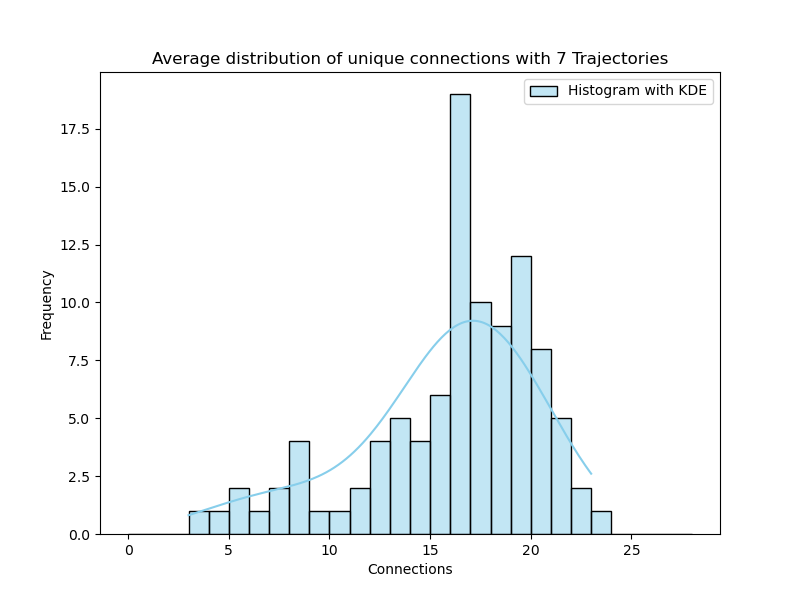
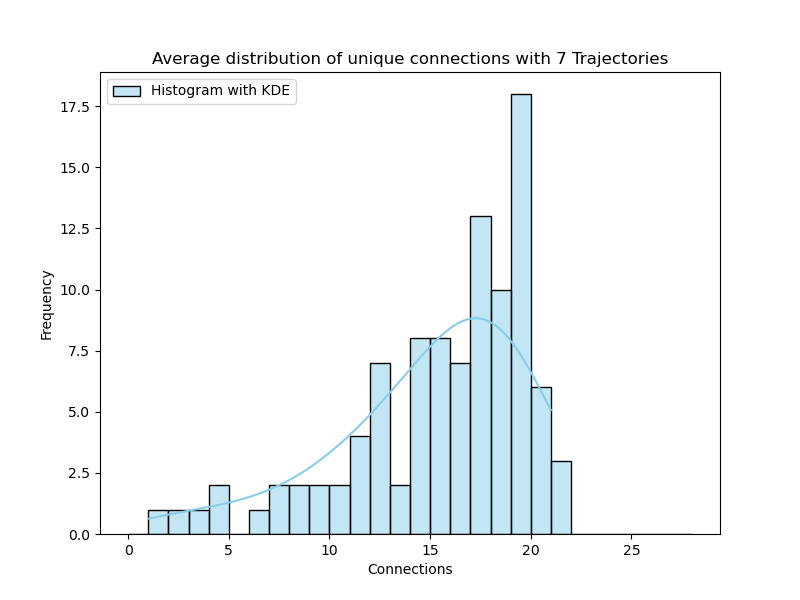
some changes
few changes

diff --git a/code/algorithms/random_start_random_choice.py b/code/algorithms/random_start_random_choice.py
@@ -31,7 +31,8 @@ def calculate_score(connections, trajectory_amount, duration, total_connections 
     p = connections / total_connections
     return p * 10000 - (trajectory_amount * 100 + duration)
 
-def generate_trajectory(connection_object_dict, possible_connections_dict, needed_connections_dict):
+def generate_trajectory(connection_object_dict, possible_connections_dict,
+    needed_connections_dict):
     """
     generates a random trajectory by preferring to choose from the connections that
     have not been chosen yet (provided in needed_connections). Takes a dictionary
@@ -43,56 +44,67 @@ def generate_trajectory(connection_object_dict, possible_connections_dict, neede
     objects = []
     duration = 0
     new_needed_connections_dict = copy.deepcopy(needed_connections_dict)
+    complete = False
 
-    # make random amount of connections between 1 and 24
-    if len(new_needed_connections_dict) > 0:
-        for i in range(random.randint(1, 24)):
-            # if there is no objects yet, we need a random starting point
-            if len(objects) <= 0:
-                # Start with a random needed connection and append to list
-                connection_object = random.choice(list(new_needed_connections_dict.values()))
-                start_station = connection_object.start_station
-                objects.append(connection_object)
-                duration += connection_object.duration
+    while not complete:
+        # if there are no connections yet, choose a random one that is available
+        if len(objects) <= 0:
+            # check if all connections have been ridden
+            if len(new_needed_connections_dict) == 0:
+                completed = True
+                break
 
-            # if we have >0 objects, go on from the end station of the previous connection
-            else:
-                length_before = len(objects)
-                departure_station = objects[-1].end_station
+            # create random connection and store values
+            connection_object = random.choice(list(new_needed_connections_dict.values()))
+            start_station = connection_object.start_station
+            objects.append(connection_object)
+            duration += connection_object.duration
+            new_needed_connections_dict.pop(start_station + '-' +
+                connection_object.end_station)
 
-                # check possible stations (connections) and append to list if it is still needed
-                possible_stations = possible_connections_dict[departure_station]
-                for station in possible_stations:
-                    if departure_station + '-' + station in new_needed_connections_dict:
-                        connection_object = new_needed_connections_dict[departure_station + "-" + station]
-                        #TODO: make sure to try other stations instead of returning
-                        # if duration time goes over 120: don't add connection and return list
-                        if duration + connection_object.duration > 120:
-                            return objects, new_needed_connections_dict
+        # if we have >0 objects, go on from the end station of the previous connection
+        else:
+            length_before = len(objects)
+            departure_station = objects[-1].end_station
 
-                        # add object, count duration and remove connection from needed connections
-                        objects.append(connection_object)
-                        duration += connection_object.duration
-                        new_needed_connections_dict.pop(departure_station + '-' + station)
-                        break
-
-                # store length after and check if previous loop has added any connections
-                length_after = len(objects)
-                if length_after == length_before:
-                    # choose random possible connection
-                    chosen_station = random.choice(possible_stations)
-                    connection_object = connection_object_dict[departure_station + "-" + chosen_station]
-
+            # check possible stations (connections) and append to list if it is still needed
+            possible_stations = possible_connections_dict[departure_station]
+            for station in possible_stations:
+                if departure_station + '-' + station in new_needed_connections_dict:
+                    connection_object = new_needed_connections_dict[departure_station
+                        + "-" + station]
+                    #TODO: make sure to try other stations instead of returning
                     # if duration time goes over 120: don't add connection and return list
                     if duration + connection_object.duration > 120:
-                        return objects, new_needed_connections_dict
+                        break
 
-                    duration += connection_object.duration
+                    # add object, count duration and remove connection from needed connections
                     objects.append(connection_object)
+                    duration += connection_object.duration
+                    new_needed_connections_dict.pop(departure_station + '-' + station)
+                    break
+
+            # check if previous loop has added any connections
+            length_after = len(objects)
+            if length_after == length_before:
+                # choose random possible connection
+                chosen_station = random.choice(possible_stations)
+                connection_object = connection_object_dict[departure_station + "-" +
+                    chosen_station]
+
+                # if duration time goes over 120: don't add connection and return list
+                if duration + connection_object.duration > 120:
+                    break
+
+                duration += connection_object.duration
+                objects.append(connection_object)
 
     return objects, new_needed_connections_dict
 
-def create_better_trajectories(trajectory_amount, connection_algorithm, full_connection_dict, original_connection_dict, needed_connections_dict, arg1 = None, arg2 = None, arg3 = None, arg4 = None, arg5 = None, arg6 = None, arg7 = None, arg8 = None, arg9 = None, arg10 = None):
+def create_better_trajectories(trajectory_amount, connection_algorithm,
+    full_connection_dict, original_connection_dict, needed_connections_dict,
+    arg1 = None, arg2 = None, arg3 = None, arg4 = None, arg5 = None, arg6 = None,
+    arg7 = None, arg8 = None, arg9 = None, arg10 = None):
     """
     Creates a given number of trajectories. Uses a specified method to select
     connections for the trajectories. Make sure to provide the arguments needed
@@ -100,7 +112,8 @@ def create_better_trajectories(trajectory_amount, connection_algorithm, full_con
     trajectory, as well as the total score of this itinerary.
     """
     # create empty dataframe to store data in
-    dataframe = pd.DataFrame(index = range(trajectory_amount + 1), columns = ['train', 'stations'])
+    dataframe = pd.DataFrame(index = range(trajectory_amount + 1), columns =
+        ['train', 'stations'])
     total_duration = 0
     connections_set = set()
     needed_connections = needed_connections_dict
@@ -115,7 +128,9 @@ def create_better_trajectories(trajectory_amount, connection_algorithm, full_con
         current_trajectory = Trajectory()
 
         # find connections according to the given connection algorithm
-        current_connections, needed_connections = connection_algorithm(*arg_list, needed_connections)
+        if len(needed_connections) > 0:
+            current_connections, needed_connections = connection_algorithm(*arg_list,
+                needed_connections)
 
         iteration = 0
 
@@ -135,7 +150,8 @@ def create_better_trajectories(trajectory_amount, connection_algorithm, full_con
             total_duration += item.duration
 
             # add start and end station as a tuple to the set of connections
-            connections_set = connections_set.union({(item.start_station + item.end_station)})
+            connections_set = connections_set.union({(item.start_station +
+                item.end_station)})
 
             iteration += 1
 
@@ -147,7 +163,8 @@ def create_better_trajectories(trajectory_amount, connection_algorithm, full_con
     # make a set of tuples with (start_station, end_station) for original connections
     original_set = set()
     for item in original_connection_dict:
-        original_set = original_set.union({(original_connection_dict[item].start_station + original_connection_dict[item].end_station)})
+        original_set = original_set.union({(original_connection_dict[item].start_station +
+            original_connection_dict[item].end_station)})
 
     # find all connections of the trajectories that are valid and count them
     set_connections = set.intersection(connections_set, original_set)

diff --git a/main.py b/main.py
@@ -59,30 +59,30 @@ if __name__ == "__main__":
 
     print(dataframe2)
 
-    # find average values from the baseline algorithms
-    total_score, total_connections, baseline_dataframe = prepare_data_baseline(100,
-        full_connection_dict, original_connection_dict, possible_directions,
-        choose_random_connections)
-
-    score_7_trajectories, connections_7_trajectories, dataframe_7_trajectories = prepare_data_baseline(
-        100, full_connection_dict, original_connection_dict, possible_directions,
-        choose_random_connections, False)
-
-    # set correct amount of bins
-    bin_edges = np.linspace(0, 28, 29)
-
-    # plot the values
-    plot_distribution(total_score, 30, "Average distribution of Scores" , "Score",
-        "code/visualisation/total_score_distribution")
-    plot_distribution(total_connections, bin_edges, "Average distribution of Connections",
-        "Connections", "code/visualisation/total_connections_distribution")
-    plot_distribution(score_7_trajectories, 30, "Average distribution of Scores with 7 Trajectories" ,
-        "Score", "code/visualisation/7_trajectories_score_distribution")
-    plot_distribution(connections_7_trajectories, bin_edges,
-        "Average distribution of unique connections with 7 Trajectories" , "Connections",
-        "code/visualisation/7_trajectories_connections_distribution")
-
-    # display the dataframe
-    baseline_dataframe.to_csv('code/visualisation/trajectories_statistics.csv', index=False)
+    # # find average values from the baseline algorithms
+    # total_score, total_connections, baseline_dataframe = prepare_data_baseline(100,
+    #     full_connection_dict, original_connection_dict, possible_directions,
+    #     choose_random_connections)
+    #
+    # score_7_trajectories, connections_7_trajectories, dataframe_7_trajectories = prepare_data_baseline(
+    #     100, full_connection_dict, original_connection_dict, possible_directions,
+    #     choose_random_connections, False)
+    #
+    # # set correct amount of bins
+    # bin_edges = np.linspace(0, 28, 29)
+    #
+    # # plot the values
+    # plot_distribution(total_score, 30, "Average distribution of Scores" , "Score",
+    #     "code/visualisation/total_score_distribution")
+    # plot_distribution(total_connections, bin_edges, "Average distribution of Connections",
+    #     "Connections", "code/visualisation/total_connections_distribution")
+    # plot_distribution(score_7_trajectories, 30, "Average distribution of Scores with 7 Trajectories" ,
+    #     "Score", "code/visualisation/7_trajectories_score_distribution")
+    # plot_distribution(connections_7_trajectories, bin_edges,
+    #     "Average distribution of unique connections with 7 Trajectories" , "Connections",
+    #     "code/visualisation/7_trajectories_connections_distribution")
+    #
+    # # display the dataframe
+    # baseline_dataframe.to_csv('code/visualisation/trajectories_statistics.csv', index=False)
 
     # create_map(dataframe2, "data/Noord_Holland/StationsHolland.csv")
